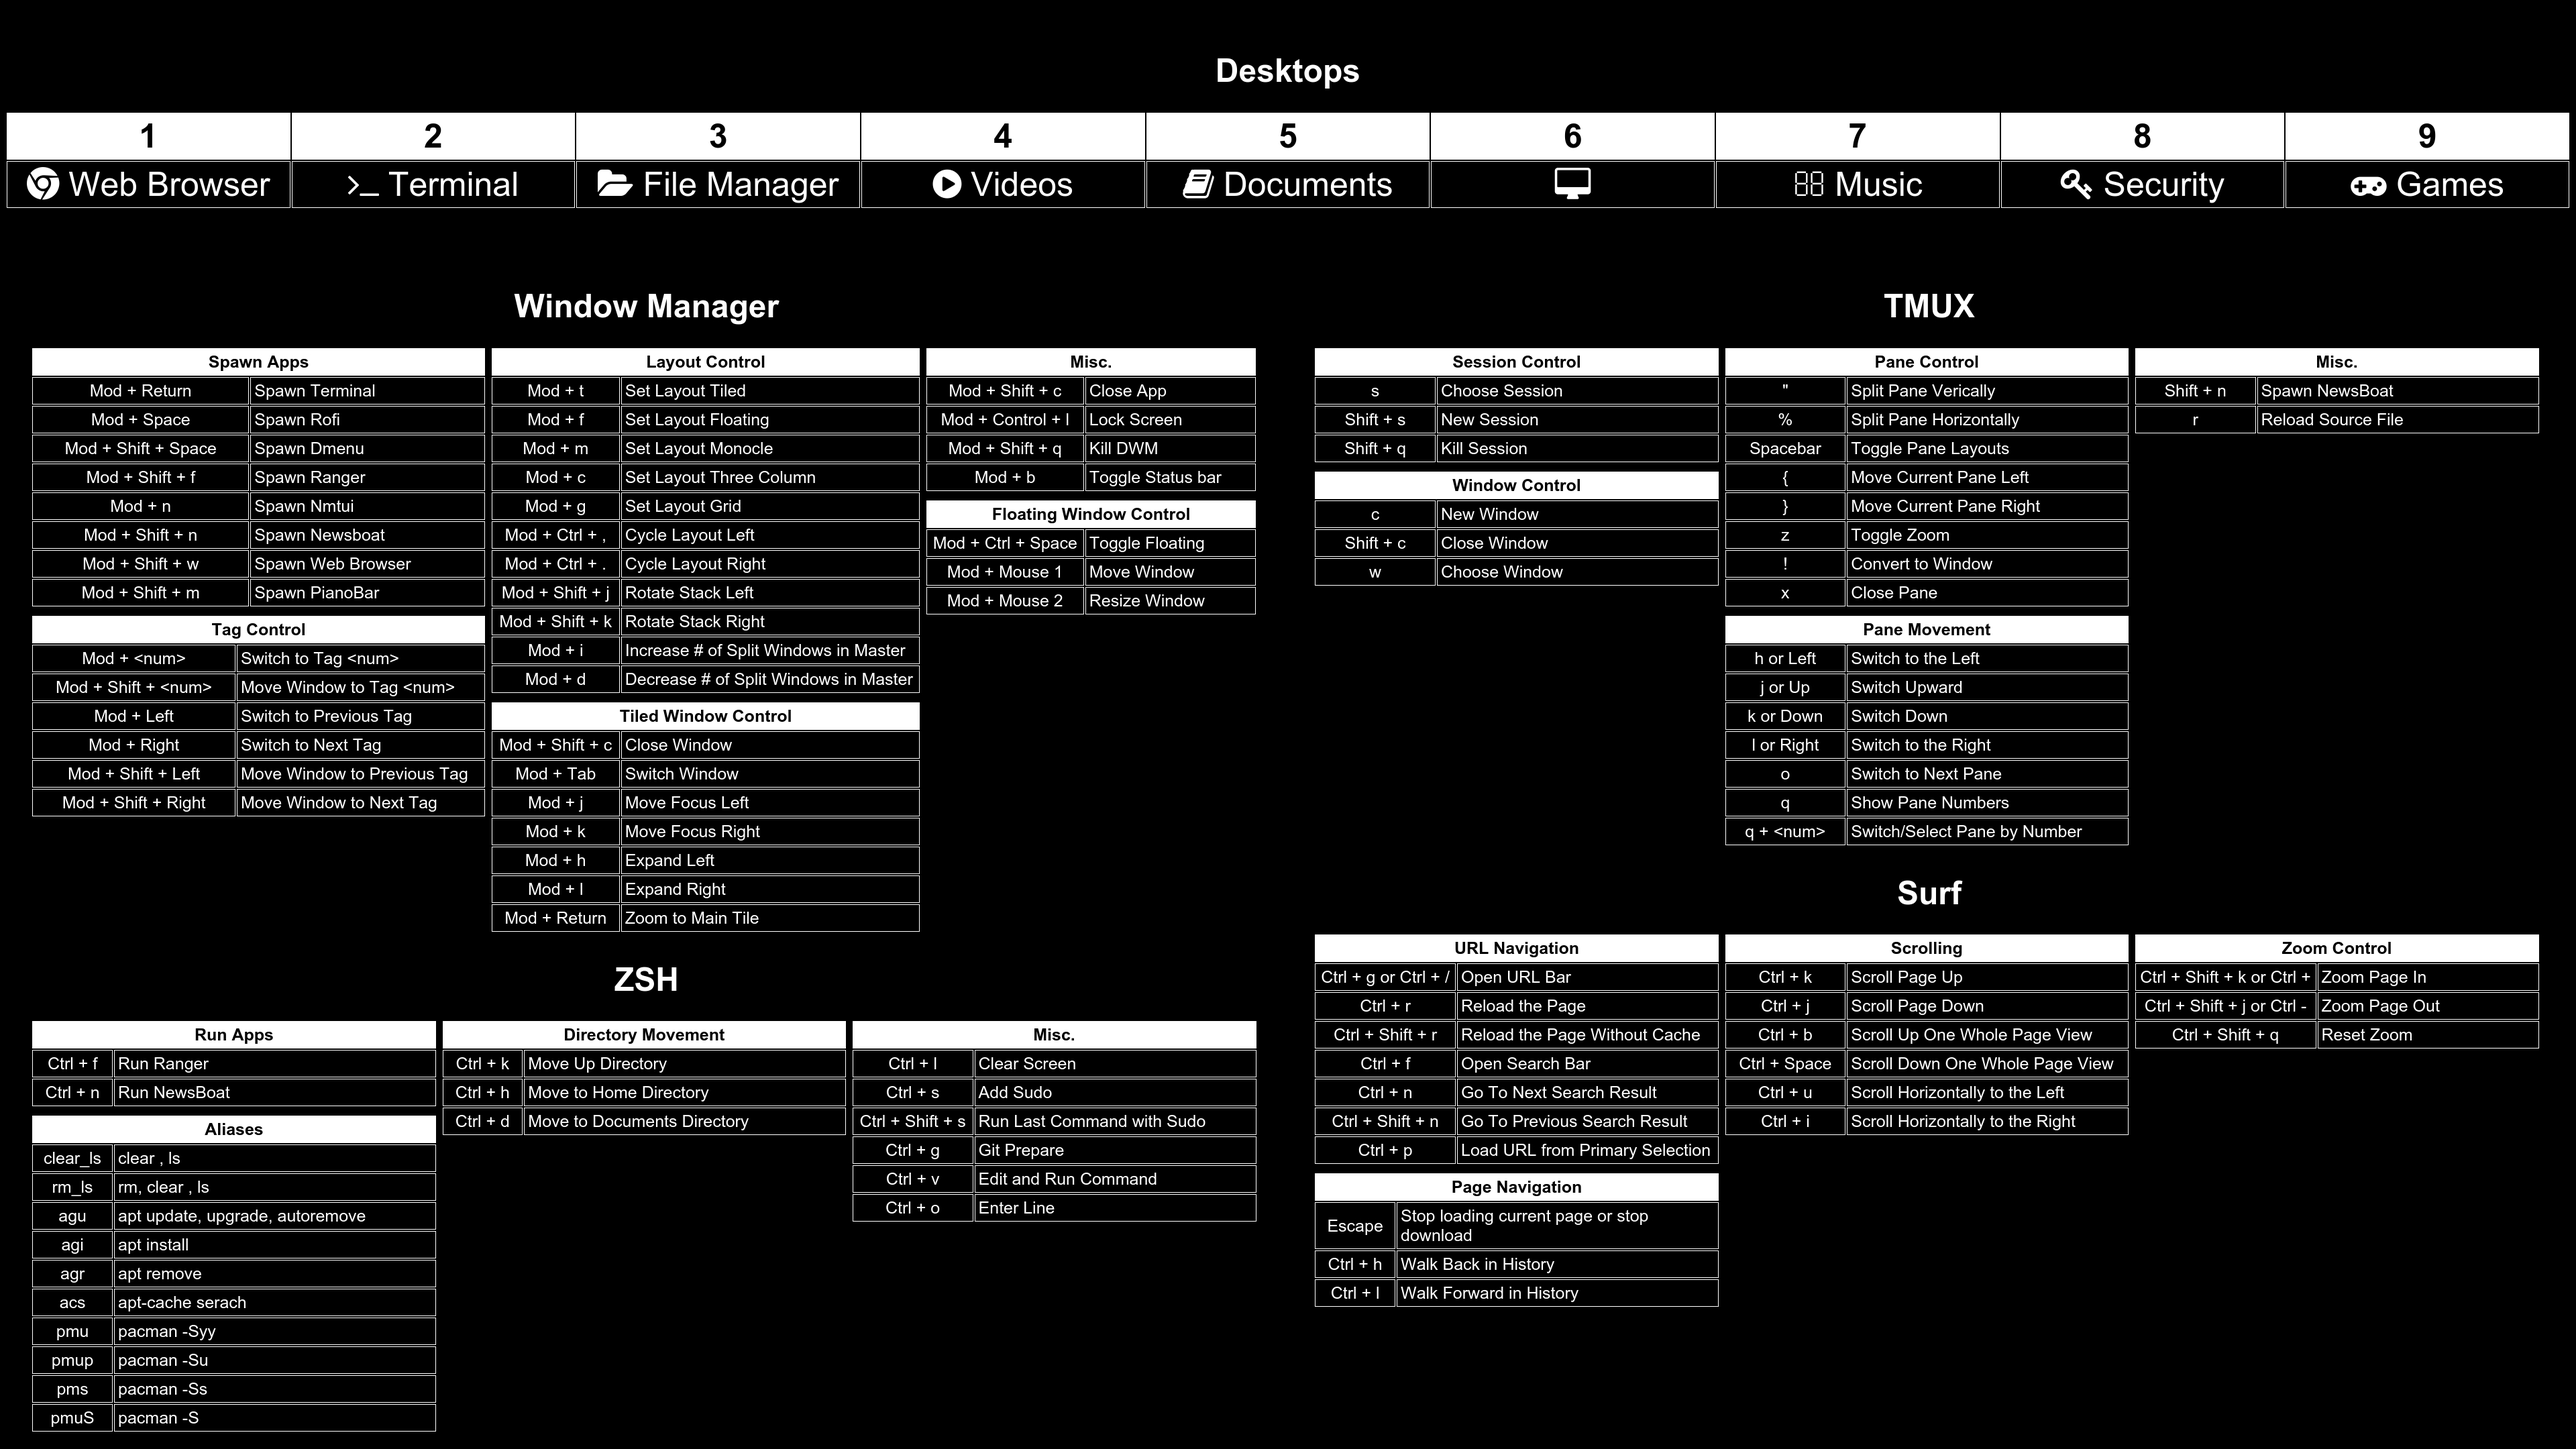
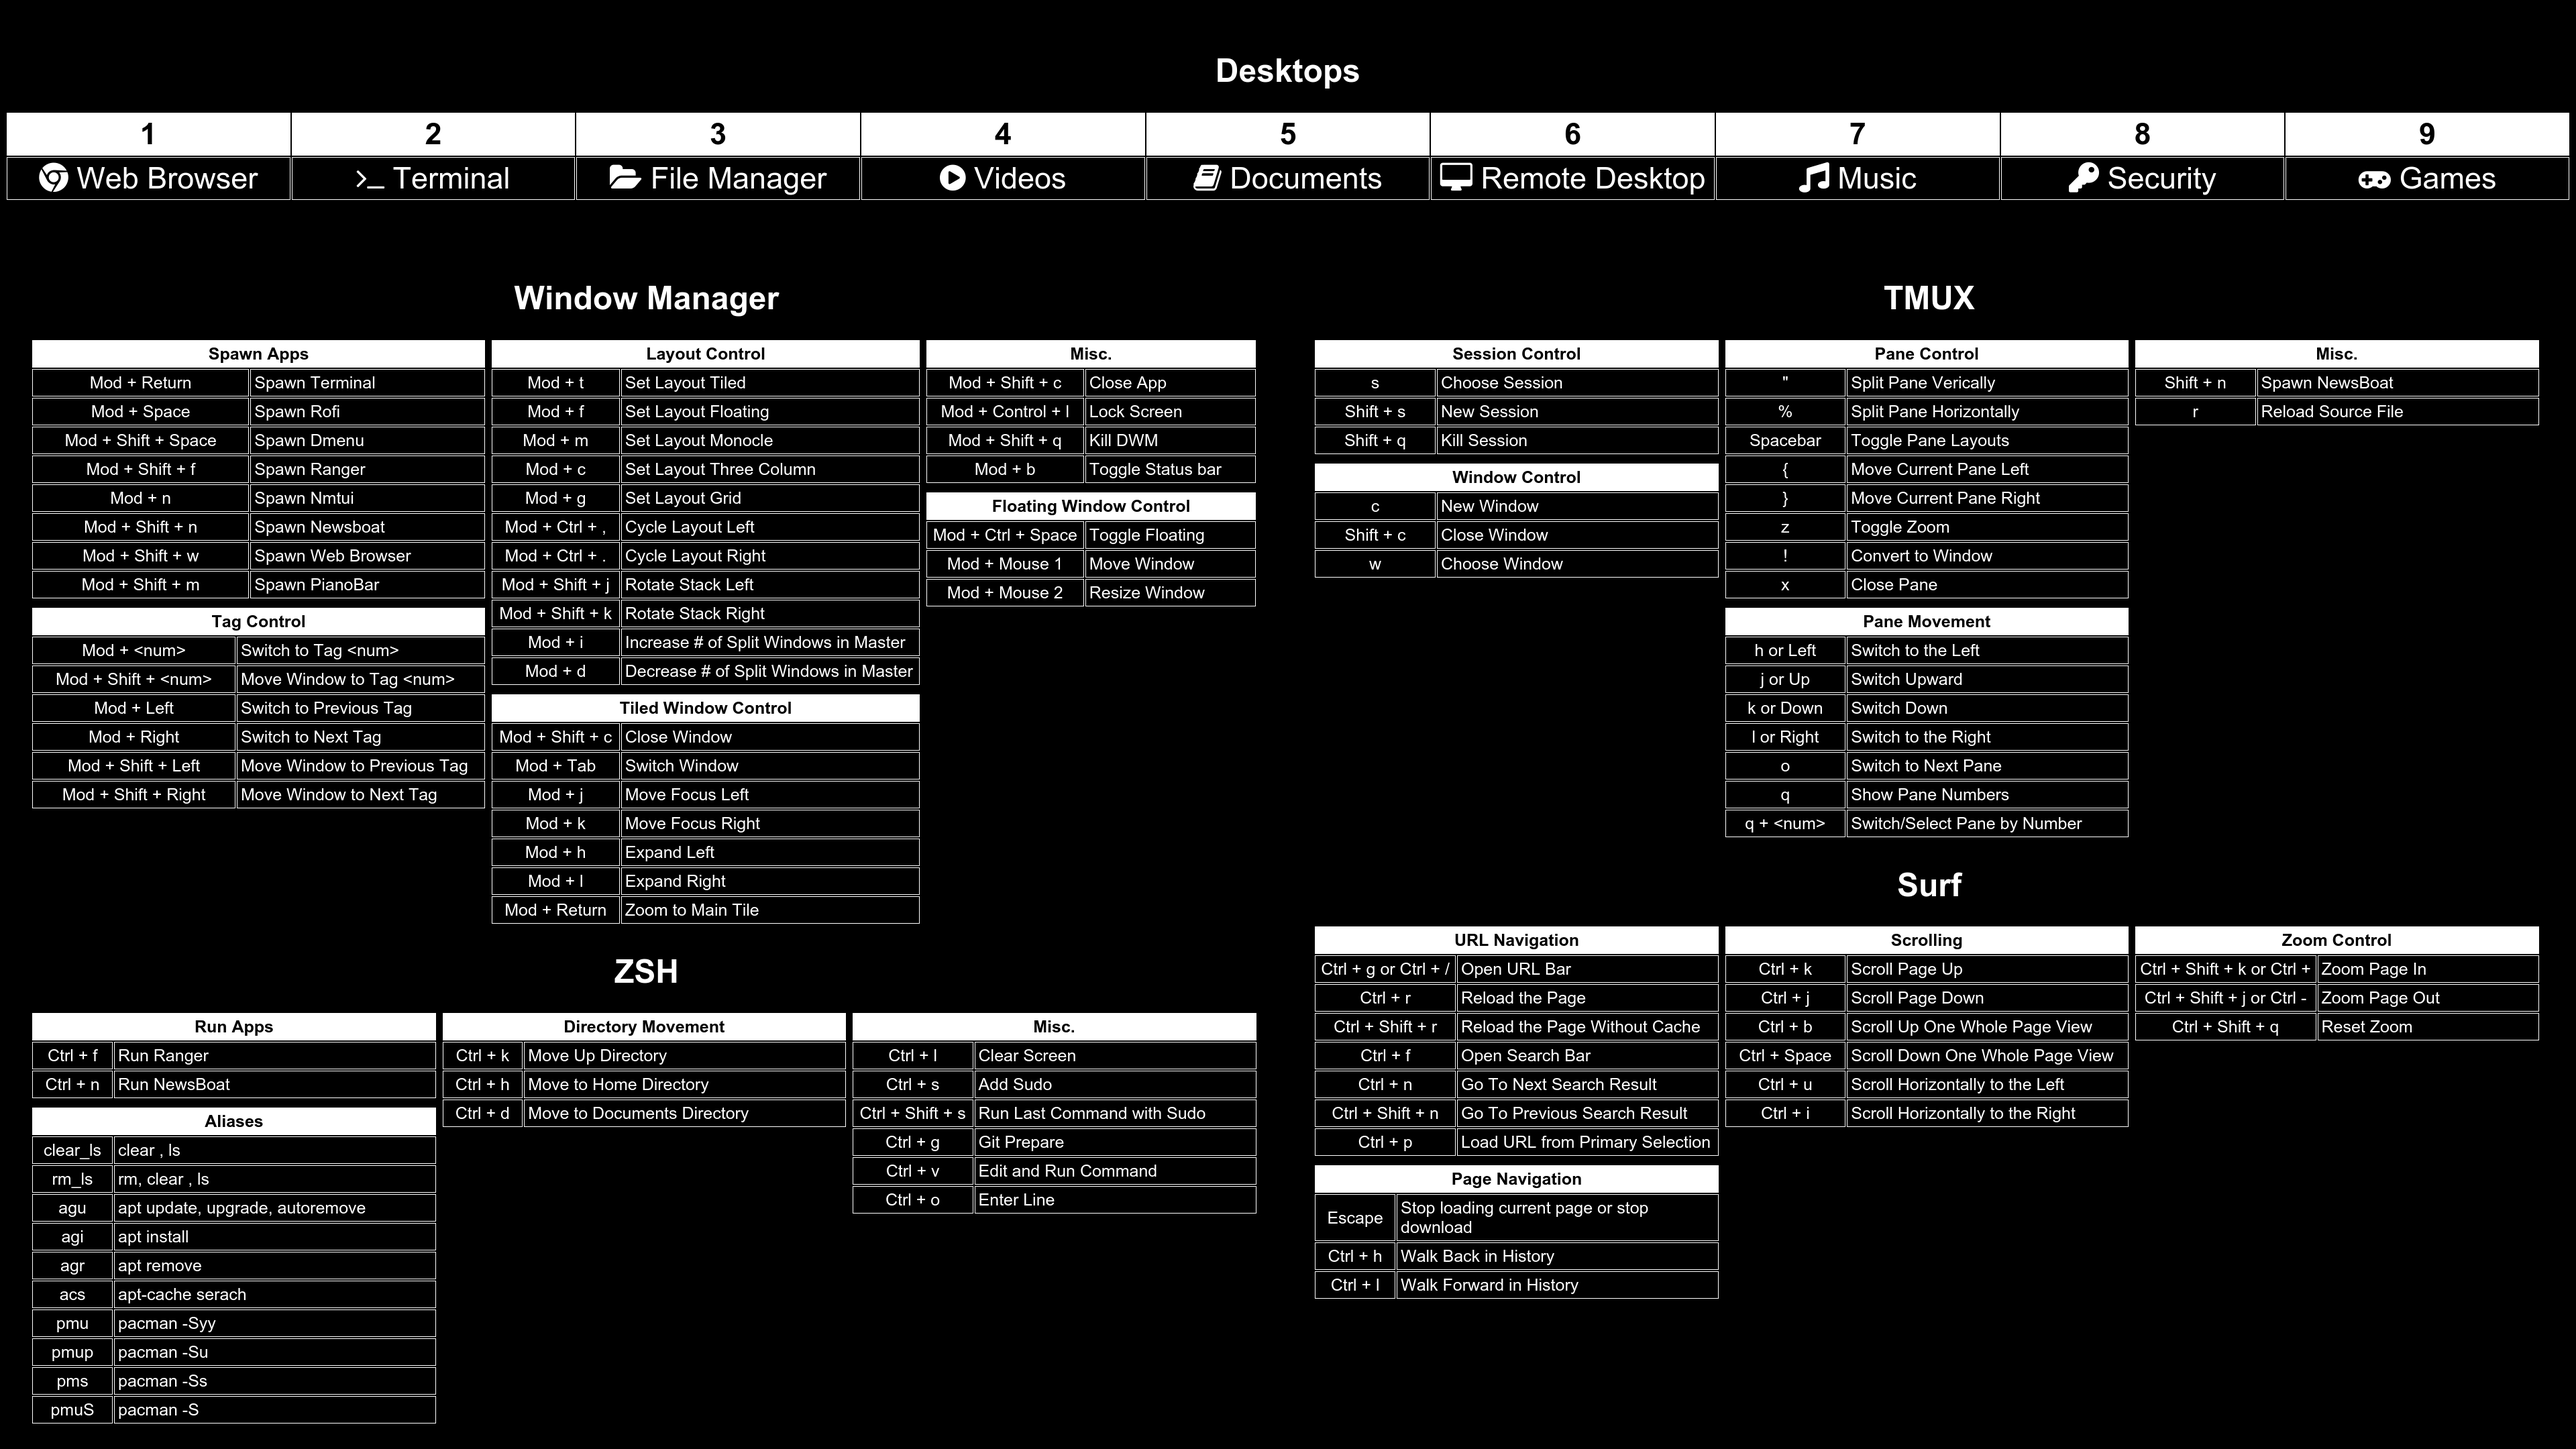
Slight fix to wallpaper

diff --git a/Keybind_Wallpaper.html b/Keybind_Wallpaper.html
@@ -33,7 +33,7 @@
       vertical-align: top;
     }
 	#bottom td {
-        font-size: 50px;
+        font-size: 45px;
 	}
 	#bottom .table_header {
         font-size: 75px;
@@ -169,9 +169,9 @@
                 <td class="kb desktop"><i class="fab fa-folder-open"></i> File Manager</td>
                 <td class="kb desktop"><i class="fab fa-play-circle"></i> Videos</td>
                 <td class="kb desktop"><i class="fab fa-book"></i> Documents</td>
-                <td class="kb desktop"><i class="fab fa-desktop"></ Remote Desktop</td>
-                <td class="kb desktop"><i class="fab fa-music"></i> Music</td>
-                <td class="kb desktop"><i class="fab fa-key"></i> Security</td>
+                <td class="kb desktop"><i class="fab fa-desktop"></i> Remote Desktop</td>
+                <td class="kb desktop"><i class="fas fa-music"></i> Music</td>
+                <td class="kb desktop"><i class="fas fa-key"></i> Security</td>
                 <td class="kb desktop"><i class="fab fa-gamepad"></i> Games</td>
             </tr>
         </table>
